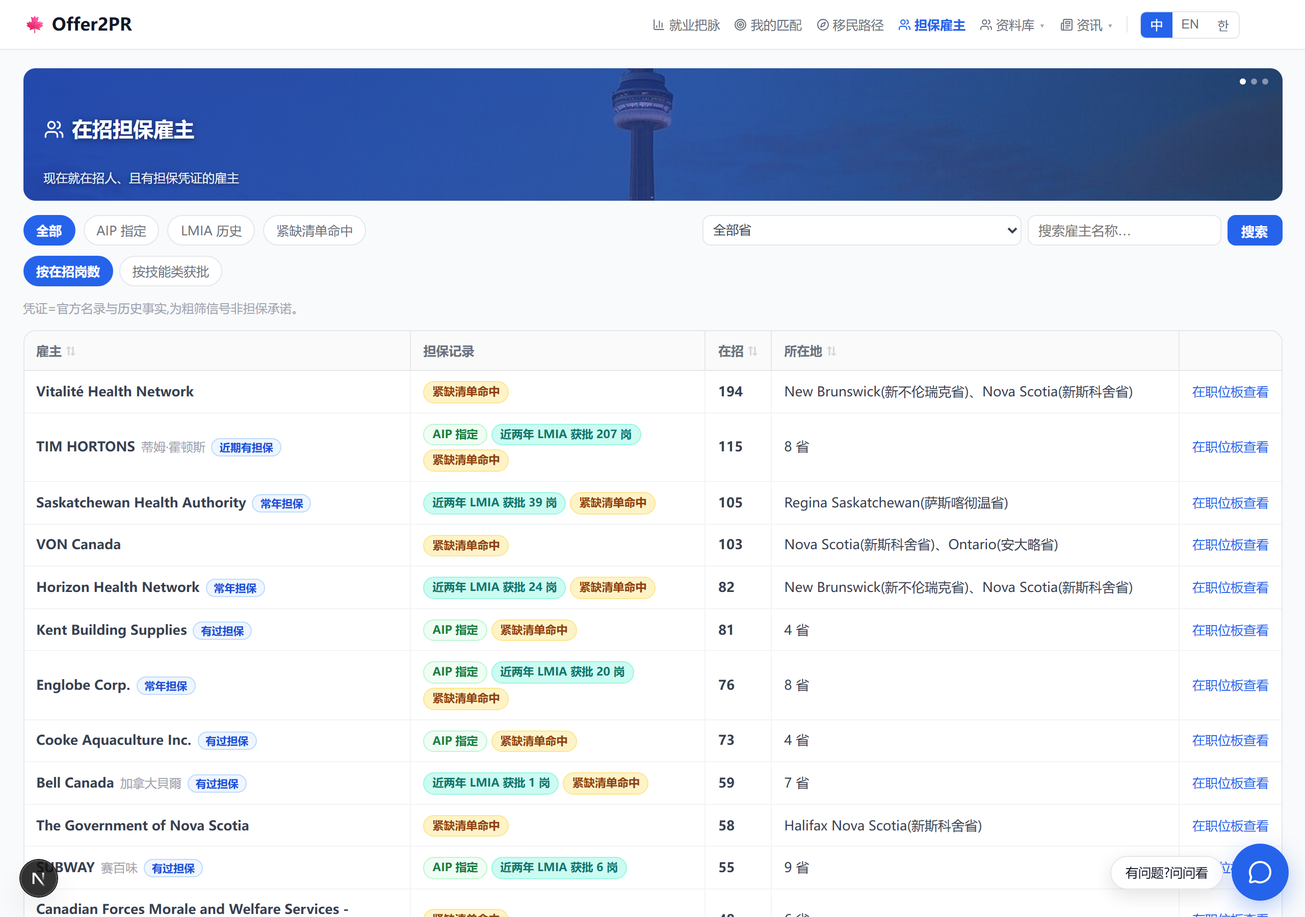
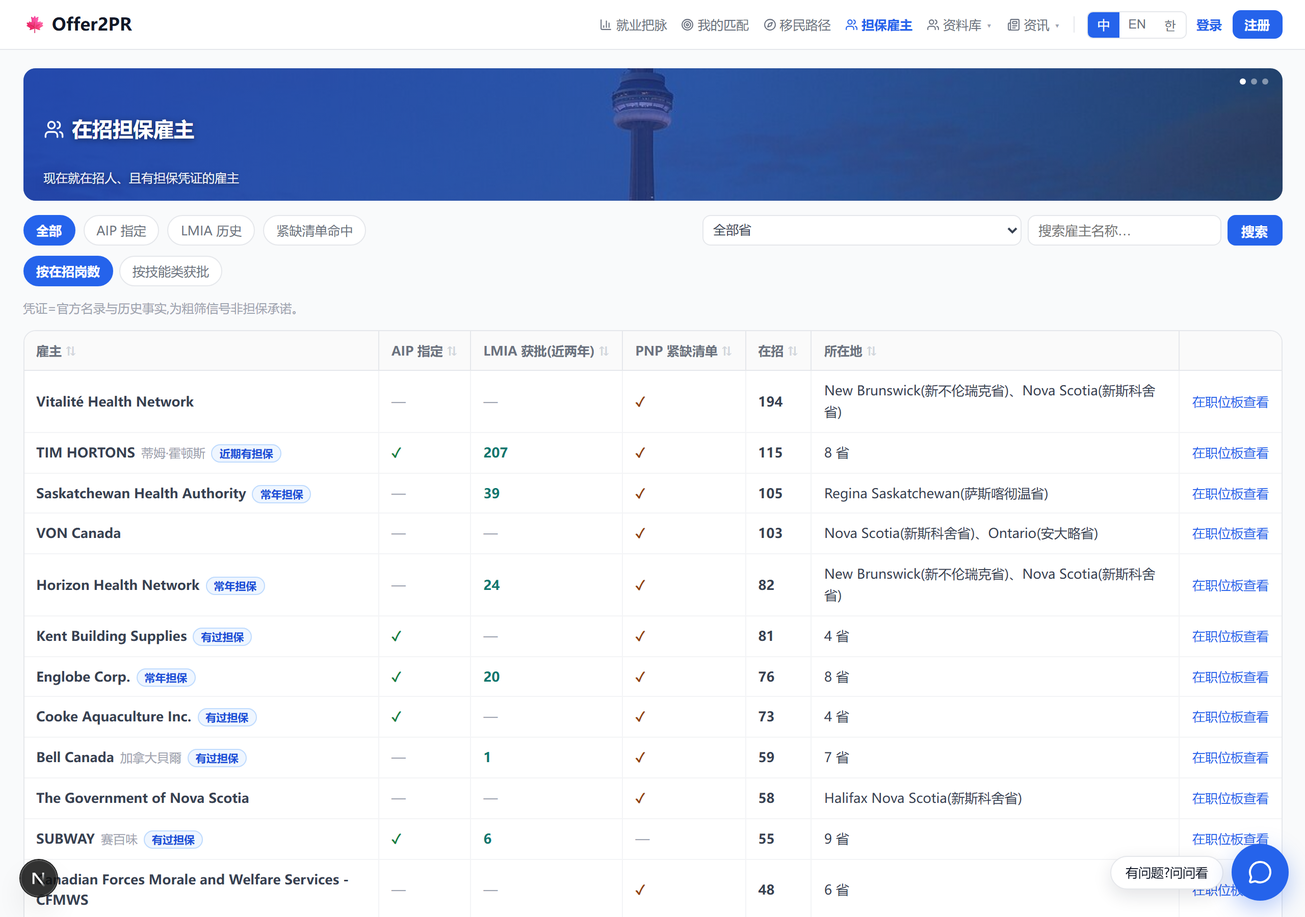
feat(web): B2 二轮——凭证三列拆分+把脉页雇主橱窗+分区折叠+二级导航条(Frank 08-08 连拍)
① 凭证列拆三(Frank「AIP/PNP/LMIA 要分开,不要杂糅」):AIP 指定/LMIA 获批(近两年)/PNP 紧缺清单
  各一列(✓/数字/—),手机卡 CardKV 一行一条;sponsorEmployerCols 双页共用
② 把脉页雇主橱窗(「最优价值的部分」):S1 后第一块 TOP10+看全部 6,943 家,复用同进程 TTL 缓存零额外查询
③ /start 每个 h2 分区可折叠(Sec,localStorage 记状态;secH/moreA/hmRight 提模块级)
④ header 下二级导航条(粘顶横滚,五分区锚点;Band 带 id+scrollMarginTop)

diff --git a/cms/src/app/(frontend)/start/StartView.tsx b/cms/src/app/(frontend)/start/StartView.tsx
@@ -25,6 +25,8 @@ import { JobCard } from '../ui/JobCard'
 import { DataTable, DTPager, type DTCol } from '../ui/DataTable'
 import { BANNER_IMGS, Chip, PageBanner, PageShell, Tag, UI } from '../ui/primitives'
 import { track } from '@/lib/track'
+import { SponsorCard, sponsorEmployerCols } from '../employers/SponsorEmployersView'
+import type { SponsorEmployerRow } from '@/lib/sponsorEmployers'
 
 // 抽选行 + 冷解读三标量(近 12 期同通道的期数/最低/最高,服务端算好,见 start/page.tsx)
 export type PulseDraw = {
@@ -37,6 +39,8 @@ export type HomeStats = {
   total: number | null; named: number | null      // S1 命中率证据(与职位板 proof 同源)
   draws: PulseDraw[]
   news: { date: string; region: string; title: string; titleZh?: string; slug: string }[]
+  sponsorTop: SponsorEmployerRow[]                // B2+ 雇主橱窗(TOP10;货架在 /employers)
+  sponsorTotal: number | null
   provExtra: Record<string, ProvExtra>            // S4 省卡:IRCC 体量 + 难度档
   provPreset: string                              // S4 预选省(档案省;匿名为空 → 默认 ON。禁 IP 定位)
   checkedAt: string
@@ -83,9 +87,31 @@ const TIER_COLORS: Record<string, { bg: string; fg: string; bd: string }> = {
   employer: { bg: '#fee2e2', fg: '#b91c1c', bd: '#fecaca' },
 }
 
+// 分区标题三件套(Sec 折叠组件也用,提到模块级)
+const secH: React.CSSProperties = { margin: '0 0 6px', fontWeight: 700, display: 'flex', alignItems: 'center', gap: 10, rowGap: 8, flexWrap: 'wrap', color: UI.text }
+const moreA: React.CSSProperties = { fontSize: 13, fontWeight: 600, color: UI.primary, textDecoration: 'none', whiteSpace: 'nowrap' }
+const hmRight: React.CSSProperties = { marginLeft: 'auto', display: 'flex', alignItems: 'center', gap: 10 }
+
 // 全宽色带 + PageShell 内轨(全站统一 1320 正文轨)
-function Band({ bg, children }: { bg?: string; children: React.ReactNode }) {
-  return <div className="plBand" style={{ background: bg }}><PageShell pad="0 1.25rem">{children}</PageShell></div>
+function Band({ bg, id, children }: { bg?: string; id?: string; children: React.ReactNode }) {
+  return <div className="plBand" id={id} style={{ background: bg, scrollMarginTop: 52 }}><PageShell pad="0 1.25rem">{children}</PageShell></div>
+}
+
+// 08-08 Frank「首页太长,每个 section 给个折叠」:h2 即开关(▾/▸),状态记 localStorage;
+// right=标题行右侧控件(TopN/链接),点它不折叠
+function Sec({ id, title, right, children }: { id: string; title: React.ReactNode; right?: React.ReactNode; children: React.ReactNode }) {
+  const [open, setOpen] = useState(true)
+  useEffect(() => { try { if (localStorage.getItem('pl.fold.' + id) === '0') setOpen(false) } catch { /* ignore */ } }, [id])
+  const toggle = () => setOpen((v) => { const n = !v; try { localStorage.setItem('pl.fold.' + id, n ? '1' : '0') } catch { /* ignore */ } ; return n })
+  return (
+    <div>
+      <h2 onClick={toggle} style={{ ...secH, margin: '0 0 10px', cursor: 'pointer', userSelect: 'none' }}>
+        {title} <span style={{ color: '#9ca3af', fontSize: 14 }}>{open ? '▾' : '▸'}</span>
+        {right ? <span style={hmRight} onClick={(e) => e.stopPropagation()}>{right}</span> : null}
+      </h2>
+      {open ? children : null}
+    </div>
+  )
 }
 
 // 条数下拉:抽选表与政策动态共用一把(数据 SSR 已多取,前端只切片)
@@ -382,9 +408,6 @@ export function StartView({ stats }: { stats: HomeStats }) {
     (r.histN != null && r.histMin != null && r.histMax != null
       ? t('pulse.dr.note', { n: r.histN, min: num(r.histMin), max: num(r.histMax) }) : '')
 
-  const secH: React.CSSProperties = { margin: '0 0 6px', fontWeight: 700, display: 'flex', alignItems: 'center', gap: 10, rowGap: 8, flexWrap: 'wrap', color: UI.text }
-  const moreA: React.CSSProperties = { fontSize: 13, fontWeight: 600, color: UI.primary, textDecoration: 'none', whiteSpace: 'nowrap' }
-  const hmRight: React.CSSProperties = { marginLeft: 'auto', display: 'flex', alignItems: 'center', gap: 10 }
   const th: React.CSSProperties = { fontSize: 11.5, color: UI.text3, fontWeight: 600, textAlign: 'left', padding: '9px 12px', borderBottom: `1px solid ${UI.hairline}`, background: '#fafafa' }
   const td: React.CSSProperties = { padding: '9px 12px', borderBottom: `1px solid ${UI.hairline}`, overflow: 'hidden', textOverflow: 'ellipsis', whiteSpace: 'nowrap' }
   const kv = (label: React.ReactNode, val: React.ReactNode) => (
@@ -431,6 +454,16 @@ export function StartView({ stats }: { stats: HomeStats }) {
           .plCta .plBtn{flex:0 0 auto;padding:12px 28px}
         }`}</style>
       <SiteHeader lang={lang} setLang={setLangSaved} t={t} active="start" />
+      {/* 二级导航条(08-08 Frank):分区锚点直跳;粘顶,375 横向滚动 */}
+      <div style={{ position: 'sticky', top: 0, zIndex: 30, background: '#fff', borderBottom: `1px solid ${UI.border}` }}>
+        <PageShell pad="0 1.25rem">
+          <div style={{ display: 'flex', gap: 16, overflowX: 'auto', padding: '9px 0', fontSize: 12.5, whiteSpace: 'nowrap' }}>
+            {([['pl-se', t('se.title')], ['pl-boards', t('pulse.nav.boards')], ['pl-prov', t('pulse.s4')], ['pl-provocc', t('pulse.s4b')], ['pl-draws', t('pulse.s5')]] as [string, string][]).map(([id, label]) => (
+              <a key={id} href={'#' + id} style={{ color: '#6b7280', textDecoration: 'none', fontWeight: 600, flexShrink: 0 }}>{label}</a>
+            ))}
+          </div>
+        </PageShell>
+      </div>
       <main style={{ flex: '1 0 auto' }}>
 
         {/* ── S1 判决区:动态冷脸标题 + 四脉象卡(banner 下方——毛玻璃合并版试过一轮,
@@ -457,11 +490,23 @@ export function StartView({ stats }: { stats: HomeStats }) {
           </PageShell>
         </div>
 
+        {/* ── 在招担保雇主橱窗(Frank 08-08「最优价值的部分」→ S1 后第一块):
+            TOP10 按在招岗数,列=B2 页共用定义(AIP/LMIA/PNP 紧缺三分,不杂糅);货架与筛选在 /employers ── */}
+        {stats.sponsorTop.length > 0 && (
+          <Band id="pl-se">
+            <Sec id="se" title={t('se.title')}
+              right={<a href="/employers" onClick={() => track('pulse-se-all')} style={moreA}>{t('se.top.all', { n: num(stats.sponsorTotal ?? stats.sponsorTop.length) })}</a>}>
+              <div className="plTable"><DataTable<SponsorEmployerRow> rows={stats.sponsorTop} cols={sponsorEmployerCols(t, lang)} rowKey={(r) => r.name} pageSize={10} /></div>
+              <div className="plCards">{stats.sponsorTop.map((r) => <SponsorCard key={r.name} r={r} lang={lang} t={t} />)}</div>
+            </Sec>
+          </Band>
+        )}
+
         {/* ── S2 三榜分层(按用户决策顺序):先排除(无通道)→ 有通道但在降温 → 有通道且在升温。
             加载中出占位块(自上而下渲染铁律,08-06「为什么下面的内容先刷出来」);
             数据到了但榜全空才整块不渲染(绝不拿存量榜顶包) */}
         {(boards === null || boards.mine.length > 0 || boards.backup.length > 0 || boards.cooling.length > 0 || boards.heating.length > 0) && (
-          <Band bg="#fff">
+          <Band bg="#fff" id="pl-boards">
             {/* 口径说明句与悬停提示 08-06 全撤(Frank「tooltips 都去掉」),榜题裸标题 */}
             {boards === null && (
               <div style={{ background: UI.card, border: `1px solid ${UI.border}`, borderRadius: 12, height: 480 }} />
@@ -471,27 +516,31 @@ export function StartView({ stats }: { stats: HomeStats }) {
                 QC/RCIP 两行灰注 08-08 Frank「删掉」 */}
             {boards !== null && boards.mine.length > 0 && (
               <div>
-                <h2 style={{ ...secH, margin: '0 0 10px' }}>{t('pulse.b1a')}</h2>
-                <OccBoard rows={boards.mine} t={t} lang={lang} nocProvs={nocProvs} showProvs={false} deadCol />
+                <Sec id="b1a" title={t('pulse.b1a')}>
+                  <OccBoard rows={boards.mine} t={t} lang={lang} nocProvs={nocProvs} showProvs={false} deadCol />
+                </Sec>
               </div>
             )}
             {boards !== null && boards.backup.length > 0 && (
               <div style={{ marginTop: boards.mine.length > 0 ? 28 : 0 }}>
-                <h2 style={{ ...secH, margin: '0 0 10px' }}>{t('pulse.b1')}</h2>
-                <OccBoard rows={boards.backup} t={t} lang={lang} nocProvs={nocProvs} showProvs={false} />
+                <Sec id="b1" title={t('pulse.b1')}>
+                  <OccBoard rows={boards.backup} t={t} lang={lang} nocProvs={nocProvs} showProvs={false} />
+                </Sec>
               </div>
             )}
             {boards !== null && boards.cooling.length > 0 && (
               <div style={{ marginTop: 28 }}>
                 {/* 08-08 Frank:榜题带涨跌箭头(收缩红↓/增长绿↑) */}
-                <h2 style={{ ...secH, margin: '0 0 10px' }}>{t('pulse.b2')} <span style={{ color: UI.danger }}>↓</span></h2>
-                <OccBoard rows={boards.cooling} t={t} lang={lang} nocProvs={nocProvs} />
+                <Sec id="b2" title={<>{t('pulse.b2')} <span style={{ color: UI.danger }}>↓</span></>}>
+                  <OccBoard rows={boards.cooling} t={t} lang={lang} nocProvs={nocProvs} />
+                </Sec>
               </div>
             )}
             {boards !== null && boards.heating.length > 0 && (
               <div style={{ marginTop: 28 }}>
-                <h2 style={{ ...secH, margin: '0 0 10px' }}>{t('pulse.b3')} <span style={{ color: UI.ok }}>↑</span></h2>
-                <OccBoard rows={boards.heating} t={t} lang={lang} nocProvs={nocProvs} />
+                <Sec id="b3" title={<>{t('pulse.b3')} <span style={{ color: UI.ok }}>↑</span></>}>
+                  <OccBoard rows={boards.heating} t={t} lang={lang} nocProvs={nocProvs} />
+                </Sec>
               </div>
             )}
           </Band>
@@ -501,8 +550,8 @@ export function StartView({ stats }: { stats: HomeStats }) {
             桌面=可排序 DataTable(10 省 × 混量纲指标,表格才排得动),手机=原省卡(站规「电脑表格手机卡片」)。
             表格行不可点(E8-08 站规「可点才有态」),切省统一走 S4b 的 chips;手机卡片保留点卡切省。 ── */}
         {(market === null || provRows.length > 0) && (
-          <Band>
-            <h2 style={secH}>{t('pulse.s4')}</h2>
+          <Band id="pl-prov">
+            <Sec id="s4" title={t('pulse.s4')}>
             {market === null && (
               <div style={{ background: UI.card, border: `1px solid ${UI.border}`, borderRadius: 12, height: 420 }} />
             )}
@@ -587,12 +636,13 @@ export function StartView({ stats }: { stats: HomeStats }) {
               </div>
             </div>
             </>)}
+            </Sec>
           </Band>
         )}
 
         {/* ── S4b 省内职业榜:chips 切省(档案省预选/匿名默认 ON,禁 IP 定位)+ 通道标签 + 职业榜 + 分布主图 ── */}
-        <Band bg="#fff">
-          <h2 style={secH}>{t('pulse.s4b')}</h2>
+        <Band bg="#fff" id="pl-provocc">
+          <Sec id="s4b" title={t('pulse.s4b')}>
           {/* 全国档打头(Frank 08-06「全国 省份 城市 都需要」;职业×城市粒度现库没有,ETL 侧排下一批,不瞎猜) */}
           <div style={{ display: 'flex', flexWrap: 'wrap', gap: 6, margin: '4px 0 8px' }}>
             <Chip active={prov === 'ALL'} onClick={() => setProv('ALL')}>{t('pulse.s4.all')}</Chip>
@@ -623,18 +673,16 @@ export function StartView({ stats }: { stats: HomeStats }) {
                 <MarketChart occ={market.occ} city={market.city} rows={market.rows} t={t} lang={lang} channels={market.channels} />
               </div>
             )}
+          </Sec>
         </Band>
 
         {/* ── S5 抽选尺子:抽选表(每期配冷解读)+ 政策动态合并一区(S4 拆两区后色带让位,回默认底) ── */}
         {(stats.draws.length > 0 || stats.news.length > 0) && (
-          <Band>
+          <Band id="pl-draws">
             {stats.draws.length > 0 && (
               <>
-                <h2 style={secH}>{t('pulse.s5')}
-                  <span style={hmRight}>
-                    <TopN v={drawsN} on={setDrawsN} max={stats.draws.length} />
-                    <a href="/pathways" style={moreA}>{t('pw.entry')}</a>
-                  </span></h2>
+                <Sec id="s5" title={t('pulse.s5')}
+                  right={<><TopN v={drawsN} on={setDrawsN} max={stats.draws.length} /><a href="/pathways" style={moreA}>{t('pw.entry')}</a></>}>
                 <div style={{ background: UI.card, border: `1px solid ${UI.border}`, borderRadius: 12, overflow: 'hidden' }}>
                   <table className="plDrawTable" style={{ width: '100%', borderCollapse: 'collapse', tableLayout: 'fixed', fontSize: 13 }}>
                     {/* 百分比固定布局永不横滚;冷解读吃最宽一列(它是这张表的结论) */}
@@ -685,6 +733,7 @@ export function StartView({ stats }: { stats: HomeStats }) {
                     ))}
                   </div>
                 </div>
+              </Sec>
               </>
             )}
             {stats.news.length > 0 && (

diff --git a/cms/src/app/(frontend)/employers/SponsorEmployersView.tsx b/cms/src/app/(frontend)/employers/SponsorEmployersView.tsx
@@ -37,21 +37,28 @@ function href(p: Partial<SponsorQuery>, cur: SponsorQuery) {
   return '/employers' + (s ? `?${s}` : '')
 }
 
-// 凭证 chips(一格多凭证=并排胶囊;无「·」杂糅,一粒一凭证)
-function CredChips({ r, t }: { r: SponsorEmployerRow; t: TFn }) {
-  const pill = (bg: string, fg: string, bd: string, txt: string) => (
-    <span key={txt} style={{ whiteSpace: 'nowrap', fontSize: 11, fontWeight: 600, padding: '1px 8px', borderRadius: 999, background: bg, color: fg, border: `1px solid ${bd}` }}>{txt}</span>
-  )
-  return (
-    <span style={{ display: 'inline-flex', gap: 4, flexWrap: 'wrap' }}>
-      {r.aip ? pill('#f0fdf4', '#15803d', '#bbf7d0', t('se.chip.aip')) : null}
-      {r.lmiaPositions > 0 ? pill('#ccfbf1', '#0f766e', '#99f6e4', r.lmiaPositions === 1 ? t('spl.lmia1') : t('spl.lmia', { n: r.lmiaPositions })) : null}
-      {r.named ? pill('#fef3c7', '#92400e', '#fde68a', t('se.chip.named')) : null}
-    </span>
-  )
+// 凭证三列(Frank 08-08「包含什么列要清晰划分,不要杂糅」):AIP 指定 / LMIA 获批(近两年)/ 紧缺清单
+// 各占一列,✓/数字/—;把脉页 TOP10 与本页共用同一列定义(改一处两边同变)
+const NIL = <span style={{ color: '#9ca3af' }}>—</span>
+export function sponsorEmployerCols(t: TFn, lang: Lang) {
+  return [
+    { key: 'name', label: t('dir.col.employer'), sort: (r: SponsorEmployerRow) => r.name.toLowerCase(), render: (r: SponsorEmployerRow) => {
+      const alias = lang === 'zh' ? r.aliasZh : lang === 'ko' ? r.aliasKo : ''
+      return <span style={{ fontWeight: 600 }}>
+        {r.name}
+        {alias ? <span style={{ marginLeft: 6, color: '#9ca3af', fontWeight: 400, fontSize: 12 }}>{alias}</span> : null}
+        {r.sponsorGrade != null && <span title={t('gr.sponsorTip')} style={{ marginLeft: 6, fontSize: 10.5, padding: '1px 7px', borderRadius: 999, background: '#eff6ff', border: '1px solid #bfdbfe', color: '#1d4ed8', whiteSpace: 'nowrap' }}>{t('gr.sp.' + r.sponsorGrade)}</span>}
+      </span> } },
+    { key: 'aip', label: t('se.chip.aip'), nowrap: true, sort: (r: SponsorEmployerRow) => (r.aip ? 1 : 0), render: (r: SponsorEmployerRow) => (r.aip ? <span style={{ color: '#15803d', fontWeight: 700 }}>✓</span> : NIL) },
+    { key: 'lmia', label: t('se.col.lmia'), nowrap: true, sort: (r: SponsorEmployerRow) => r.lmiaPositions, render: (r: SponsorEmployerRow) => (r.lmiaPositions > 0 ? <span style={{ color: '#0f766e', fontWeight: 700 }}>{r.lmiaPositions}</span> : NIL) },
+    { key: 'named', label: t('se.col.named'), nowrap: true, sort: (r: SponsorEmployerRow) => (r.named ? 1 : 0), render: (r: SponsorEmployerRow) => (r.named ? <span style={{ color: '#92400e', fontWeight: 700 }}>✓</span> : NIL) },
+    { key: 'open', label: t('se.col.open'), nowrap: true, sort: (r: SponsorEmployerRow) => r.openJobs, render: (r: SponsorEmployerRow) => <span style={{ fontWeight: 700 }}>{r.openJobs}</span> },
+    { key: 'where', label: t('se.col.where'), sort: (r: SponsorEmployerRow) => r.provs[0] ?? null, render: (r: SponsorEmployerRow) => <>{whereText(r, t)}</> },
+    { key: 'go', label: '', nowrap: true, render: (r: SponsorEmployerRow) => <a href={`/?q=${encodeURIComponent(r.name)}`} onClick={() => track('se-view-jobs')} style={{ color: UI.primary, textDecoration: 'none', fontSize: 12.5 }}>{t('rank.viewJobs')}</a> },
+  ]
 }
 
-function SponsorCard({ r, lang, t }: { r: SponsorEmployerRow; lang: Lang; t: TFn }) {
+export function SponsorCard({ r, lang, t }: { r: SponsorEmployerRow; lang: Lang; t: TFn }) {
   const alias = lang === 'zh' ? r.aliasZh : lang === 'ko' ? r.aliasKo : ''
   return (
     <Card>
@@ -60,8 +67,11 @@ function SponsorCard({ r, lang, t }: { r: SponsorEmployerRow; lang: Lang; t: TFn
         {r.sponsorGrade != null && <span title={t('gr.sponsorTip')} style={{ marginLeft: 6, fontSize: 10.5, padding: '1px 7px', borderRadius: 999, background: '#eff6ff', border: '1px solid #bfdbfe', color: '#1d4ed8', fontWeight: 600, whiteSpace: 'nowrap' }}>{t('gr.sp.' + r.sponsorGrade)}</span>}
       </div>
       {alias ? <div style={{ fontSize: 12.5, color: '#9ca3af', marginTop: 2 }}>{alias}</div> : null}
-      <div style={{ marginTop: 6 }}><CredChips r={r} t={t} /></div>
+      {/* 凭证一行一条(Frank 08-08 拆列拍板;卡上=KV 行,与桌面三列同语义) */}
       <CardKV items={[
+        { k: t('se.chip.aip'), v: r.aip ? <span style={{ color: '#15803d', fontWeight: 700 }}>✓</span> : <span style={{ color: '#9ca3af' }}>—</span> },
+        { k: t('se.col.lmia'), v: r.lmiaPositions > 0 ? <span style={{ color: '#0f766e', fontWeight: 700 }}>{r.lmiaPositions}</span> : <span style={{ color: '#9ca3af' }}>—</span> },
+        { k: t('se.col.named'), v: r.named ? <span style={{ color: '#92400e', fontWeight: 700 }}>✓</span> : <span style={{ color: '#9ca3af' }}>—</span> },
         { k: t('se.col.open'), v: <span style={{ fontWeight: 700 }}>{r.openJobs}</span> },
         { k: t('se.col.where'), v: whereText(r, t) },
       ]} />
@@ -130,19 +140,7 @@ export function SponsorEmployersView({ query, items, total, occTitle }: {
           {items.length === 0 && <div style={{ padding: 24, textAlign: 'center', color: '#9ca3af', fontSize: 13 }}>{t('dir.empty')}</div>}
         </div>
         <div className="tcTableWrap">
-          <DataTable<SponsorEmployerRow> rows={items} rowKey={(r) => r.name} empty={t('dir.empty')} cols={[
-            { key: 'name', label: t('dir.col.employer'), sort: (r) => r.name.toLowerCase(), render: (r) => {
-              const alias = lang === 'zh' ? r.aliasZh : lang === 'ko' ? r.aliasKo : ''
-              return <span style={{ fontWeight: 600 }}>
-                {r.name}
-                {alias ? <span style={{ marginLeft: 6, color: '#9ca3af', fontWeight: 400, fontSize: 12 }}>{alias}</span> : null}
-                {r.sponsorGrade != null && <span title={t('gr.sponsorTip')} style={{ marginLeft: 6, fontSize: 10.5, padding: '1px 7px', borderRadius: 999, background: '#eff6ff', border: '1px solid #bfdbfe', color: '#1d4ed8', whiteSpace: 'nowrap' }}>{t('gr.sp.' + r.sponsorGrade)}</span>}
-              </span> } },
-            { key: 'cred', label: t('gr.dim.coSponsor'), render: (r) => <CredChips r={r} t={t} /> },
-            { key: 'open', label: t('se.col.open'), nowrap: true, sort: (r) => r.openJobs, render: (r) => <span style={{ fontWeight: 700 }}>{r.openJobs}</span> },
-            { key: 'where', label: t('se.col.where'), sort: (r) => r.provs[0] ?? null, render: (r) => <>{whereText(r, t)}</> },
-            { key: 'go', label: '', nowrap: true, render: (r) => <a href={`/?q=${encodeURIComponent(r.name)}`} onClick={() => track('se-view-jobs')} style={{ color: UI.primary, textDecoration: 'none', fontSize: 12.5 }}>{t('rank.viewJobs')}</a> },
-          ]} />
+          <DataTable<SponsorEmployerRow> rows={items} rowKey={(r) => r.name} empty={t('dir.empty')} cols={sponsorEmployerCols(t, lang)} />
         </div>
         <div style={{ display: 'flex', alignItems: 'center', gap: 14, margin: '12px 0', fontSize: 12.5, color: '#6b7280', flexWrap: 'wrap' }}>
           <span>{t('dir.total', { n: total })} · {t('dir.page', { p: query.page + 1, m: pages })}</span>

diff --git a/cms/src/app/(frontend)/jobs/i18n.ts b/cms/src/app/(frontend)/jobs/i18n.ts
@@ -887,6 +887,7 @@ const zh: Dict = {
   'se.title': '在招担保雇主', 'se.sub': '现在就在招人、且有担保凭证的雇主',
   'se.chip.all': '全部', 'se.chip.aip': 'AIP 指定', 'se.chip.lmia': 'LMIA 历史', 'se.chip.named': '紧缺清单命中',
   'se.col.open': '在招', 'se.col.where': '所在地', 'se.where.multi': '{n} 省',
+  'se.col.lmia': 'LMIA 获批(近两年)', 'se.col.named': 'PNP 紧缺清单', 'se.top.all': '看全部 {n} 家', 'pulse.nav.boards': '职业榜',
   'se.sort.open': '按在招岗数', 'se.sort.skilled': '按技能类获批',
   'se.occFilter': '职业:{name}', 'se.note': '凭证=官方名录与历史事实,为粗筛信号非担保承诺。',
   'spl.head': '担保雇主', 'spl.aip': 'AIP 指定雇主(官方名单)', 'spl.lmia': '近两年 LMIA 获批 {n} 岗', 'spl.lmia1': '近两年 LMIA 获批 1 岗',
@@ -1739,6 +1740,7 @@ const en: Dict = {
   'se.title': 'Sponsor employers hiring now', 'se.sub': 'Employers hiring right now with sponsorship records',
   'se.chip.all': 'All', 'se.chip.aip': 'AIP designated', 'se.chip.lmia': 'LMIA history', 'se.chip.named': 'On in-demand lists',
   'se.col.open': 'Open jobs', 'se.col.where': 'Location', 'se.where.multi': '{n} provinces',
+  'se.col.lmia': 'LMIA approved (2 yrs)', 'se.col.named': 'PNP in-demand list', 'se.top.all': 'See all {n} employers', 'pulse.nav.boards': 'Occupation boards',
   'se.sort.open': 'Most open jobs', 'se.sort.skilled': 'Most skilled LMIA',
   'se.occFilter': 'Occupation: {name}', 'se.note': 'Records are official lists and history — a rough signal, not a promise to sponsor.',
   'spl.head': 'Sponsor employers', 'spl.aip': 'AIP designated employer (official list)', 'spl.lmia': 'LMIA-approved {n} positions in the past two years', 'spl.lmia1': 'LMIA-approved 1 position in the past two years',
@@ -2586,6 +2588,7 @@ const ko: Dict = {
   'se.title': '채용 중인 스폰서 고용주', 'se.sub': '지금 채용 중이며 스폰서 이력이 있는 고용주',
   'se.chip.all': '전체', 'se.chip.aip': 'AIP 지정', 'se.chip.lmia': 'LMIA 이력', 'se.chip.named': '수요 목록 해당',
   'se.col.open': '채용 중', 'se.col.where': '지역', 'se.where.multi': '{n}개 주',
+  'se.col.lmia': 'LMIA 승인(2년)', 'se.col.named': 'PNP 수요 목록', 'se.top.all': '전체 {n}곳 보기', 'pulse.nav.boards': '직업 보드',
   'se.sort.open': '채용 많은 순', 'se.sort.skilled': '기술직 승인 많은 순',
   'se.occFilter': '직업: {name}', 'se.note': '이력은 공식 명단·기록으로 참고 신호이며 스폰서 약속이 아닙니다.',
   'spl.head': '스폰서 고용주', 'spl.aip': 'AIP 지정 고용주(공식 명단)', 'spl.lmia': '최근 2년 LMIA 승인 {n}건', 'spl.lmia1': '최근 2년 LMIA 승인 1건',

diff --git a/cms/src/app/(frontend)/start/page.tsx b/cms/src/app/(frontend)/start/page.tsx
@@ -14,6 +14,7 @@ import { normalizeProfile } from '@/lib/match'
 import { loadProvExtra } from '../stats/lib'
 import { PROVS } from '../stats/shared'
 import { StartView, type HomeStats } from './StartView'
+import { fetchSponsorEmployers } from '@/lib/sponsorEmployers'
 
 export const dynamic = 'force-dynamic'
 
@@ -63,7 +64,7 @@ function withDrawHistory(rows: RawDraw[], limit: number): HomeStats['draws'] {
 
 async function loadHomeStats(pool: any): Promise<Omit<HomeStats, 'checkedAt' | 'provPreset'>> {
   // 每项独立 .catch(null):一张表缺/查询挂只丢它自己那块,页面照常(宁可留空)
-  const [proof, drawRes, newsRes, provExtra] = await Promise.all([
+  const [proof, drawRes, newsRes, provExtra, sponsorRows] = await Promise.all([
     fetchTotalAndProof(pool).catch(() => null),
     // 抽选表(与 /pathways 同源 pnp_draws):前端只展示 Top N(下拉 10/20/50),
     // 但冷解读要按通道回看 12 期 —— 多取一批只在服务端用完即丢,不进 HTML
@@ -75,9 +76,12 @@ async function loadHomeStats(pool: any): Promise<Omit<HomeStats, 'checkedAt' | '
     pool.query(`SELECT * FROM news ORDER BY date DESC, id DESC LIMIT 80`)
       .then((r: any) => r.rows as any[]).catch(() => []),
     loadProvExtra().catch(() => ({})),      // 省卡:IRCC 学签/工签/PNP 拿到 PR + 难度档(与 /stats 索引页同源)
+    // B2+ 雇主橱窗:复用 /employers 的进程内聚合缓存(同进程同一份,零额外查询);挂了只丢橱窗
+    fetchSponsorEmployers(pool).catch(() => []),
   ])
   return {
     total: proof?.total || null, named: proof?.named || null,
+    sponsorTop: sponsorRows.slice(0, 10), sponsorTotal: sponsorRows.length || null,
     draws: withDrawHistory(drawRes as RawDraw[], 50),
     news: (() => {
       // 同题去重带归一化:IRCC 同一稿隔日重发常只差尾部「(城市)」括注,精确比对抓不住

diff --git a/docs/implementation/在招担保雇主/02_B2_在招担保雇主页.md b/docs/implementation/在招担保雇主/02_B2_在招担保雇主页.md
@@ -34,6 +34,15 @@
 - [x] 375 先验 + 桌面;三语文案过四闸;tsc 净。
 - [ ] 效果图发 Frank(命名与入口=蓝图候选,他此处可改)→ 点头 push → 生产换版实拍 + 一轻一重探针。
 
+## 2b. 二轮追加(Frank 08-08 连拍)
+
+- 凭证「担保记录」单列杂糅 → **AIP 指定 / LMIA 获批(近两年)/ PNP 紧缺清单 三根独立列**(✓/数字/—;
+  手机卡=CardKV 一行一条);列定义 `sponsorEmployerCols` 双页共用。
+- **把脉页雇主橱窗**(Frank「最优价值的部分」):/start S1 后第一块,TOP10+「看全部 {n} 家」→ /employers;
+  数据复用同进程 TTL 缓存零额外查询(sponsorTop 进 HomeStats)。
+- **/start 太长两治**:① 每个 h2 分区可折叠(Sec 组件,localStorage 记状态);② header 下**二级导航条**
+  (粘顶横滚锚点:担保雇主/职业榜/分省概览/省内职业榜/近期抽选)。
+
 ## 4. 实现步骤
 
 - [x] 4.1 `cms/src/lib/sponsorEmployers.ts`:聚合 SQL + TTL 缓存 + 进程内筛选排序。
@@ -41,7 +50,8 @@
 - [x] 4.3 `employers/SponsorEmployersView.tsx`:chips+表卡双形态。
 - [x] 4.4 `SiteHeader.tsx` 一级项;`rankings/[slug]` 301+tab 摘除。
 - [x] 4.5 i18n 三语(se.*;凭证措辞复用 spl.*)。
-- [ ] 4.6 本地验(tsc+双端实拍+筛选核数)→ 效果图 → Frank 点头 → push → 生产验。
+- [x] 4.6a 本地验(tsc+双端实拍+筛选核数+折叠/锚点实测)→ 效果图已发。
+- [ ] 4.6b Frank 点头 → push → 生产验(换版实拍+一轻一重探针)。
 
 ## 5. 涉及目录 / 文件
 
